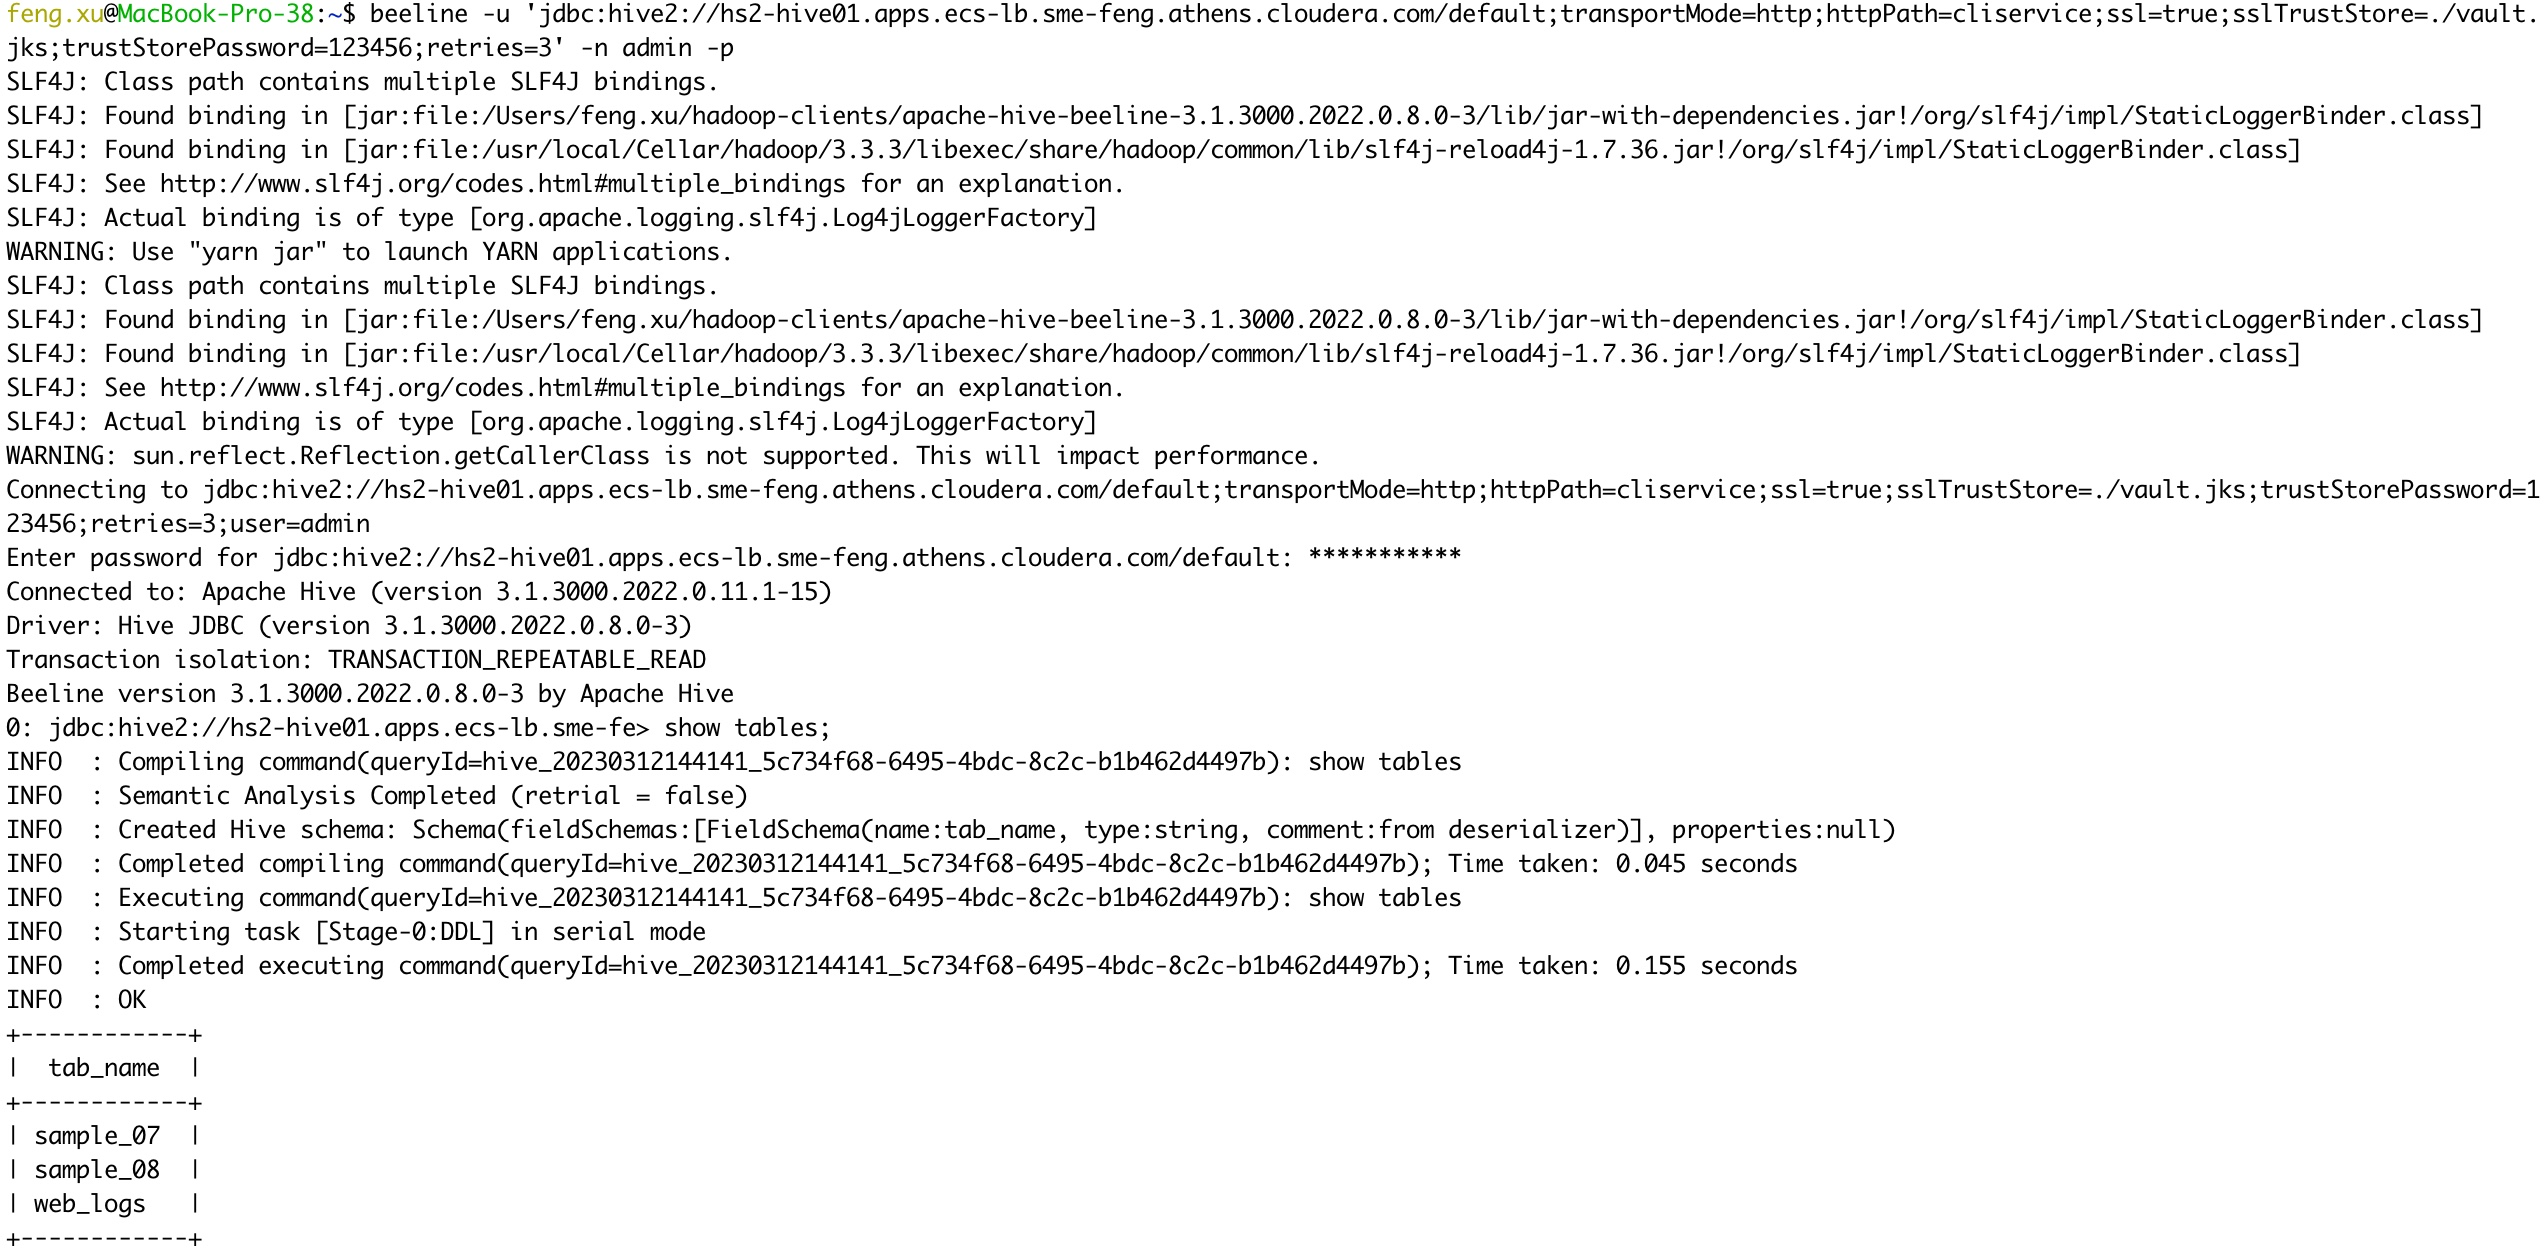
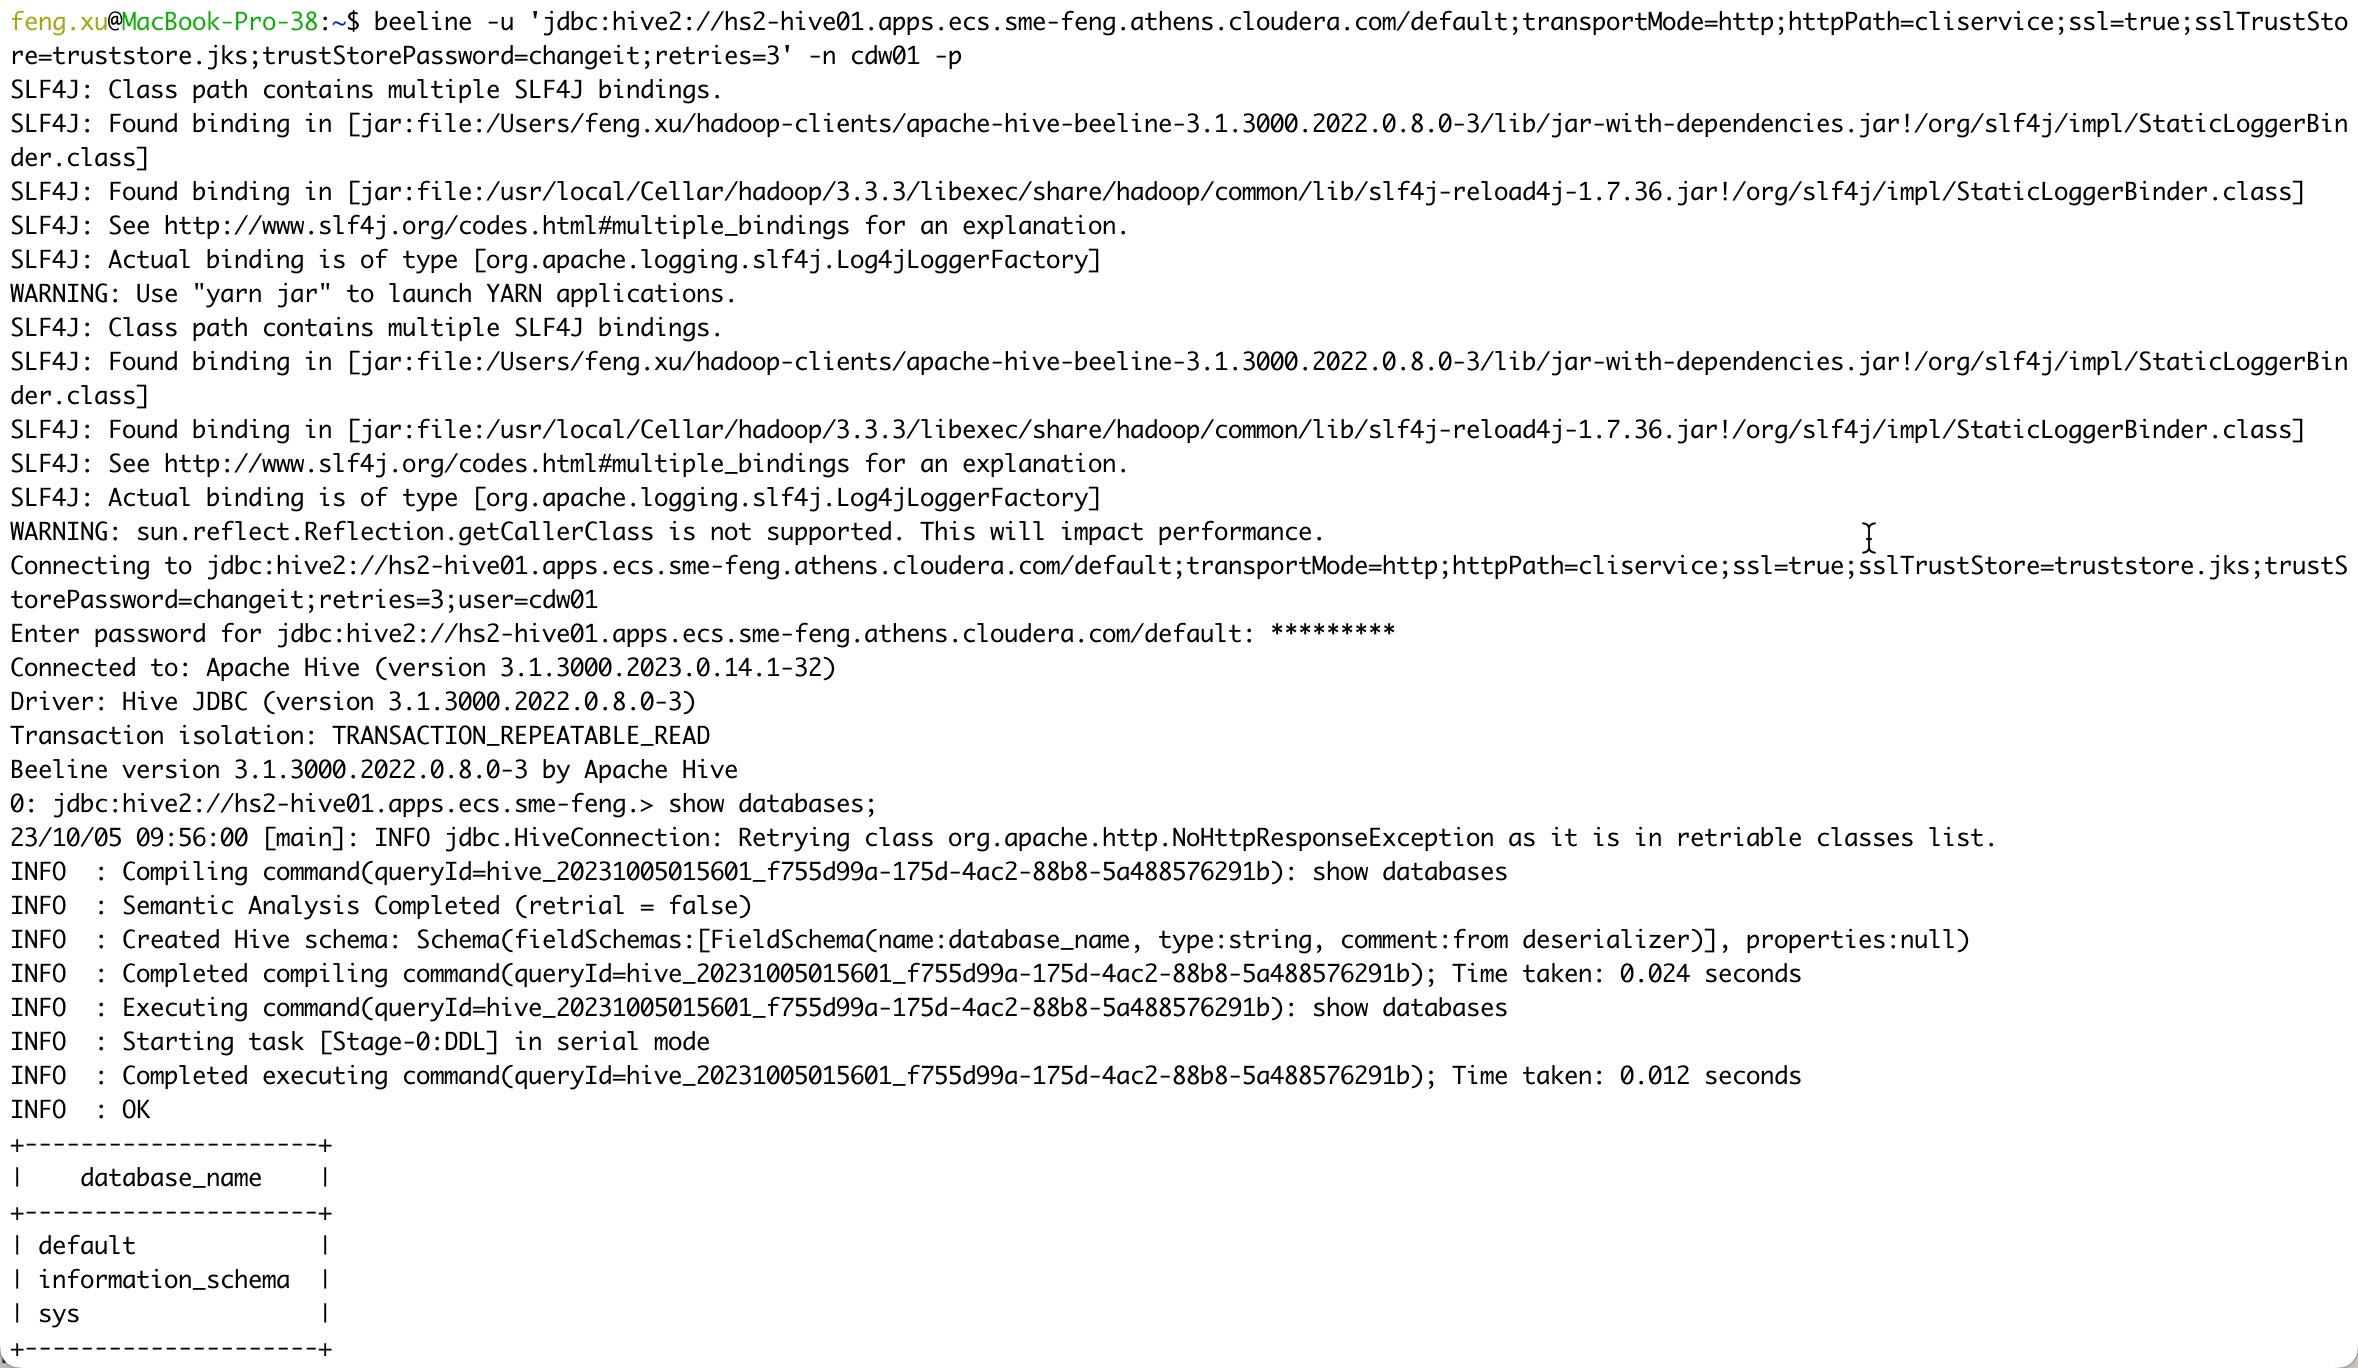
add krb5

diff --git a/docs/ds/hadoopclients.md b/docs/ds/hadoopclients.md
@@ -22,8 +22,8 @@ This topic would allow you to connect to hive using beeline, connect to impala u
 |Python|3.8.13|
 |Hadoop|3.1.1|
 |Beeline|3.1.3000|
-|Impala-shell|4.1.0a2|
-|Data Service|1.5.0|
+|Impala-shell|4.3.0a2|
+|Data Service|1.5.1|
 
 
 ## 1. Install OpenJDK 11
@@ -285,13 +285,11 @@ beeline -u 'jdbc:hive2://hs2-hive01.apps.ecs-lb.sme-feng.athens.cloudera.com/def
 ![](../../assets/images/ds/gateway011.jpg)
 
 - Connect to Hive VW in PvC CDW using LDAP authentication with CA from Auto TLS setup.
-    - Please retrieve vault.ca by a kubectl call: `kubectl get secret -n vault-system vault-server-tls -o jsonpath="{.data['vault\.ca']}"| base64 --decode > vault.ca`
-    - Please generate vault.jks by a keytool call: `keytool -import -alias vault -file vault.ca -keystore vault.jks`
+    - Please retrieve vault.ca by a kubectl call: `kubectl get configmap -n cdp vault-jks -o jsonpath="{.binaryData['truststore\.jks']}"| base64 --decode > truststore.jks`
     
 ```bash
-kubectl get secret -n vault-system vault-server-tls -o jsonpath="{.data['vault\.ca']}"| base64 --decode > vault.ca
-keytool -import -alias vault -file vault.ca -keystore vault.jks
-beeline -u 'jdbc:hive2://hs2-hive01.apps.ecs.sme-feng.athens.cloudera.com/default;transportMode=http;httpPath=cliservice;ssl=true;sslTrustStore=./vault.jks;trustStorePassword=xxxx;retries=3' -n admin -p
+kubectl get configmap -n cdp vault-jks -o jsonpath="{.binaryData['truststore\.jks']}"| base64 --decode > truststore.jks
+beeline -u 'jdbc:hive2://hs2-hive01.apps.ecs.sme-feng.athens.cloudera.com/default;transportMode=http;httpPath=cliservice;ssl=true;sslTrustStore=./truststore.jks;trustStorePassword=changeit;retries=3' -n cdw01 -p
 ```
 
 ![](../../assets/images/ds/gateway013.jpg)
@@ -357,7 +355,27 @@ impala-shell --protocol='hs2-http' --ssl --ca_cert ./chain.pem -i 'coordinator-i
 
 ```bash
 kubectl get secret -n vault-system vault-server-tls -o jsonpath="{.data['vault\.ca']}"| base64 --decode > vault.ca   
-impala-shell --protocol='hs2-http' --ssl --ca_cert ./vault.ca -i 'coordinator-impala01.apps.ecs-lb.sme-feng.athens.cloudera.com:443' -u admin  -l
+impala-shell --protocol='hs2-http' --ssl --ca_cert ./vault.ca -i 'coordinator-impala01.apps.ecs.sme-feng.athens.cloudera.com:443' -u cdw01  -l
 ```
 
 ![](../../assets/images/ds/gateway012.jpg)
+
+
+- Connect to Impala VW in PvC CDW using Kerberos authentication with CA from Auto TLS setup. 
+    - Please upgrade impala-shell to 4.3.0a2 at first
+    - You can enable kerberos debug logging for impala-shell
+
+```bash
+pip install --upgrade pip==18.1
+yum install gcc-c++ python-devel.x86_64 cyrus-sasl-devel.x86_64
+pip install --upgrade impala-shell==4.3.0a2
+
+export HADOOP_OPTS="-Dsun.security.krb5.debug=true"
+export KRB5_TRACE=/dev/stdout
+export HADOOP_ROOT_LOGGER=TRACE,console
+
+kinit cdw01 
+impala-shell --protocol='hs2-http' --ssl -i 'coordinator-impala01.apps.ecs.sme-feng.athens.cloudera.com:443' -s hive -k --kerberos_host_fqdn=dwx-env-ecs.cdp.local.
+```
+
+![](../../assets/images/ds/gateway014.jpg)
